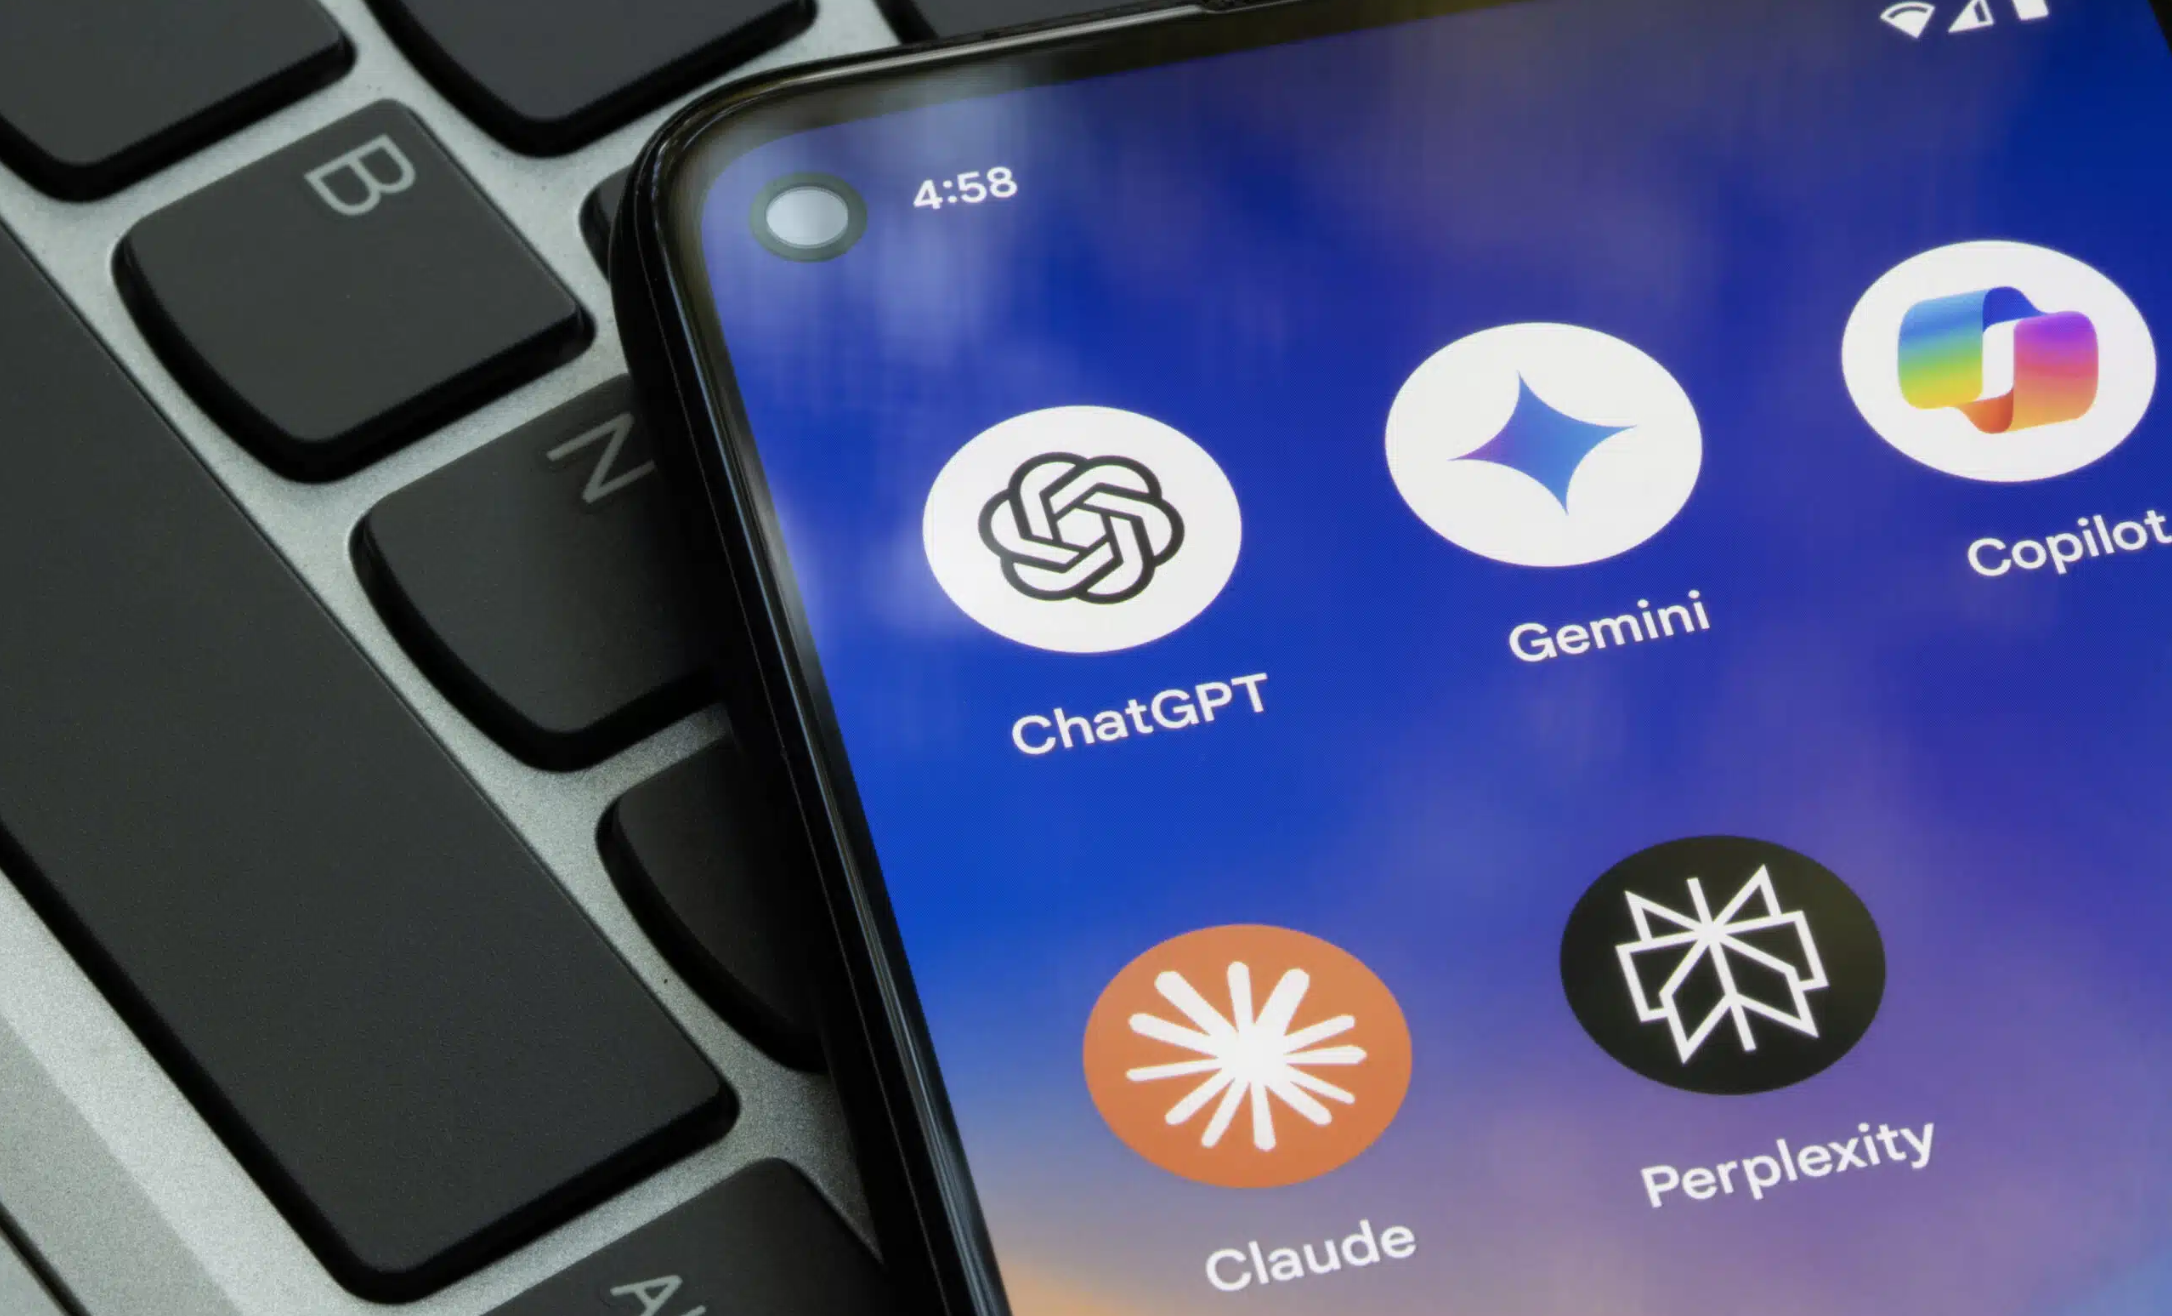
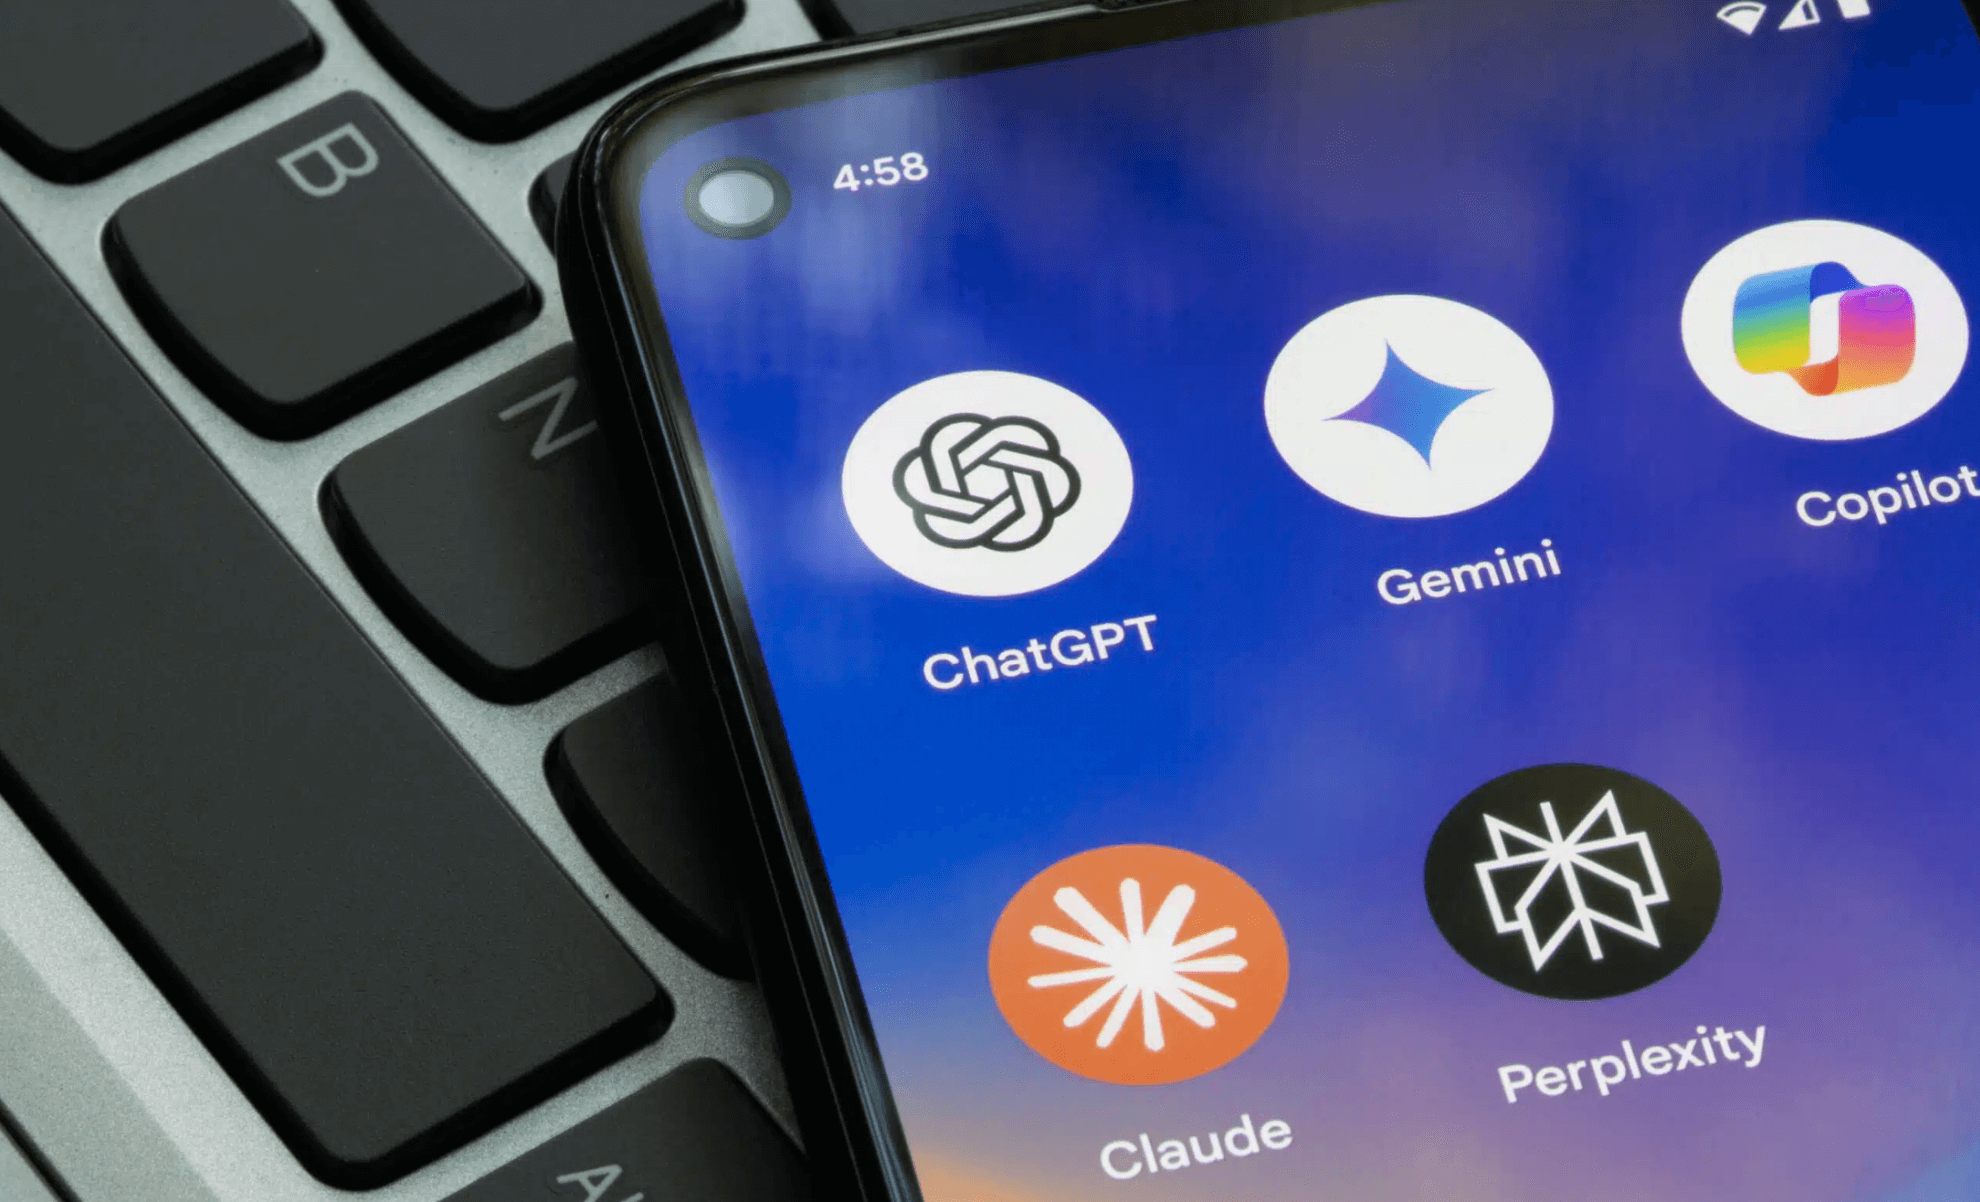
smaller sizes

diff --git a/_posts/2025-07-06-building-online-authority-thru-embeddings.md b/_posts/2025-07-06-building-online-authority-thru-embeddings.md
@@ -2,7 +2,7 @@
 title: "Building Online Authority Through Embeddings"
 date: 2025-07-06
 description: "Introducing the Embeddings-Powered Content Intelligence Engine"
-image: "/assets/images/blog/4.png"
+image: "/assets/images/blog/4.jpeg"
 ---
 Building online authority requires chasing backlinks, tweaking keywords, and manually engaging multiple platforms just to stay visible. But that playbook is changing (who has the patience?). I'm putting togther a new system—the Embeddings-Powered Content Intelligence Engine to brings automation, semantic analysis, and smart content distribution together for the sake of LLM brand visibility.
 
